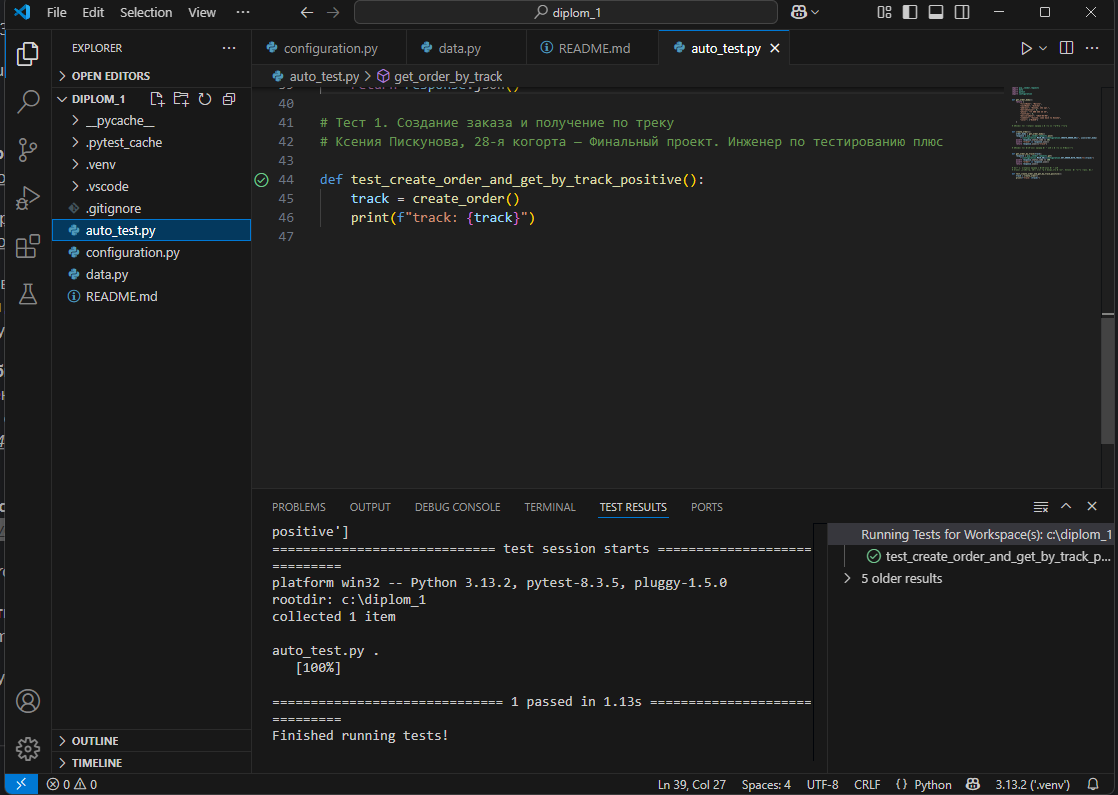
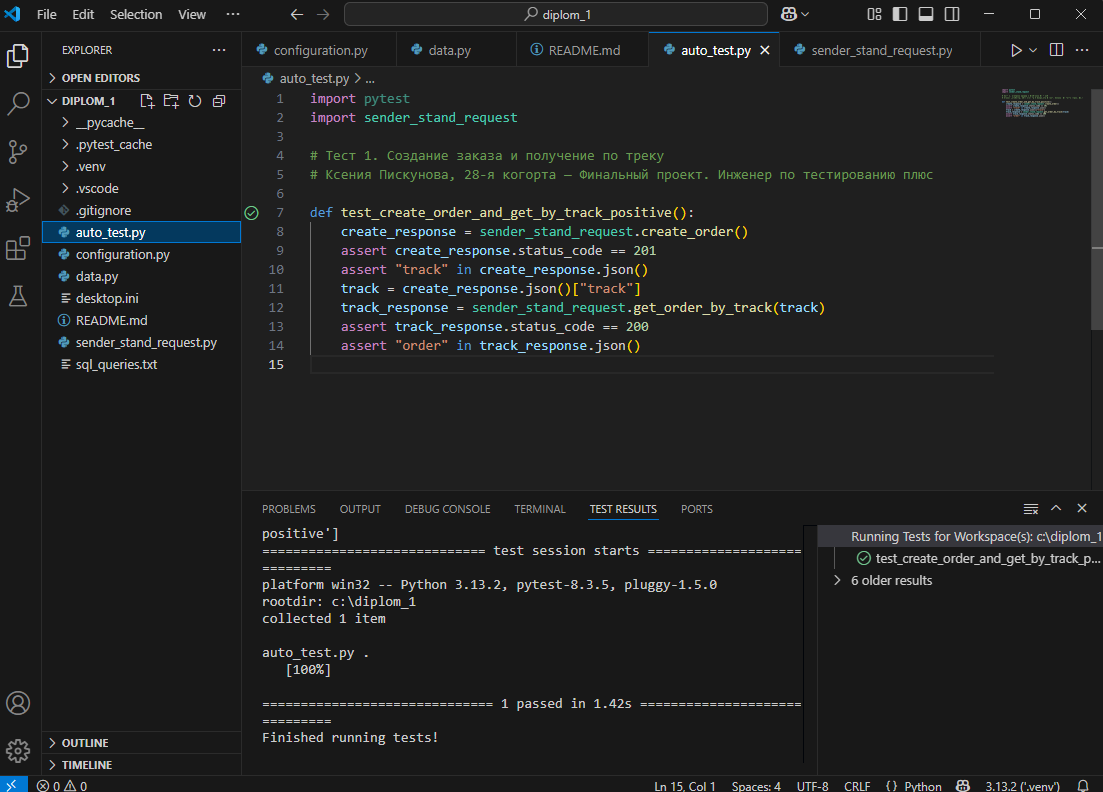
New file sender_stand_request, updated autotest and screenshot

diff --git a/auto_test.py b/auto_test.py
@@ -1,46 +1,12 @@
-import pip._vendor.requests
-import data
 import pytest
-import configuration
-
-
-def get_order_body():
-    return {
-        "firstName": "Naruto",
-        "lastName": "Uchiha",
-        "address": "Konoha, 142 apt.",
-        "metroStation": 4,
-        "phone": "+7 800 355 35 35",
-        "rentTime": 5,
-        "deliveryDate": "2025-04-06",
-        "comment": "Sasuke, come back to Konoha",
-        "color": ["BLACK"]
-    }
-
-# Функция для создания заказа и проверки статуса ответа
-
-
-def create_order():
-    order_body = get_order_body()
-    response = pip._vendor.requests.post(
-        f"{configuration.MAIN_URL}{configuration.CREATE_ORDER_URL}", json=order_body)
-    assert response.status_code == 201
-    assert "track" in response.json()
-    return response.json()["track"]
-
-# Функция для получения заказа по треку и проверки успешности
-
-
-def get_order_by_track(track):
-    response = pip._vendor.requests.get(
-        f"{configuration.MAIN_URL}{configuration.GET_ORDER_WITH_TRACK}?t={track}")
-    assert response.status_code == 200
-    assert "order" in response.json()
-    return response.json()
+import sender_stand_request
 
 # Тест 1. Создание заказа и получение по треку
+# Ксения Пискунова, 28-я когорта — Финальный проект. Инженер по тестированию плюс
 
 
 def test_create_order_and_get_by_track_positive():
-    track = create_order()
-    print(f"track: {track}")
+    create_response = sender_stand_request.create_order()
+    track = create_response.json()["track"]
+    track_response = sender_stand_request.get_order_by_track(track)
+    assert track_response.status_code == 200

diff --git a/sender_stand_request.py b/sender_stand_request.py
@@ -1,0 +1,34 @@
+import pip._vendor.requests
+import configuration
+import data
+
+
+def get_order_body():
+    return {
+        "firstName": "Naruto",
+        "lastName": "Uchiha",
+        "address": "Konoha, 142 apt.",
+        "metroStation": 4,
+        "phone": "+7 800 355 35 35",
+        "rentTime": 5,
+        "deliveryDate": "2025-04-06",
+        "comment": "Sasuke, come back to Konoha",
+        "color": ["BLACK"]
+    }
+
+# Функция для создания заказа и проверки статуса ответа
+
+
+def create_order():
+    order_body = get_order_body()
+    response = pip._vendor.requests.post(
+        f"{configuration.MAIN_URL}{configuration.CREATE_ORDER_URL}", json=order_body)
+    return response
+
+# Функция для получения заказа по треку и проверки успешности
+
+
+def get_order_by_track(track):
+    response = pip._vendor.requests.get(
+        f"{configuration.MAIN_URL}{configuration.GET_ORDER_WITH_TRACK}?t={track}")
+    return response

diff --git a/configuration.py b/configuration.py
@@ -1,4 +1,4 @@
-MAIN_URL = "https://a1d9fc53-f912-42c3-a658-48ab9cf8d668.serverhub.praktikum-services.ru"
+MAIN_URL = "https://86e5ed2c-a57f-4eeb-bad4-4632ff8786d8.serverhub.praktikum-services.ru/"
 
 CREATE_ORDER_URL = "/api/v1/orders"
 
